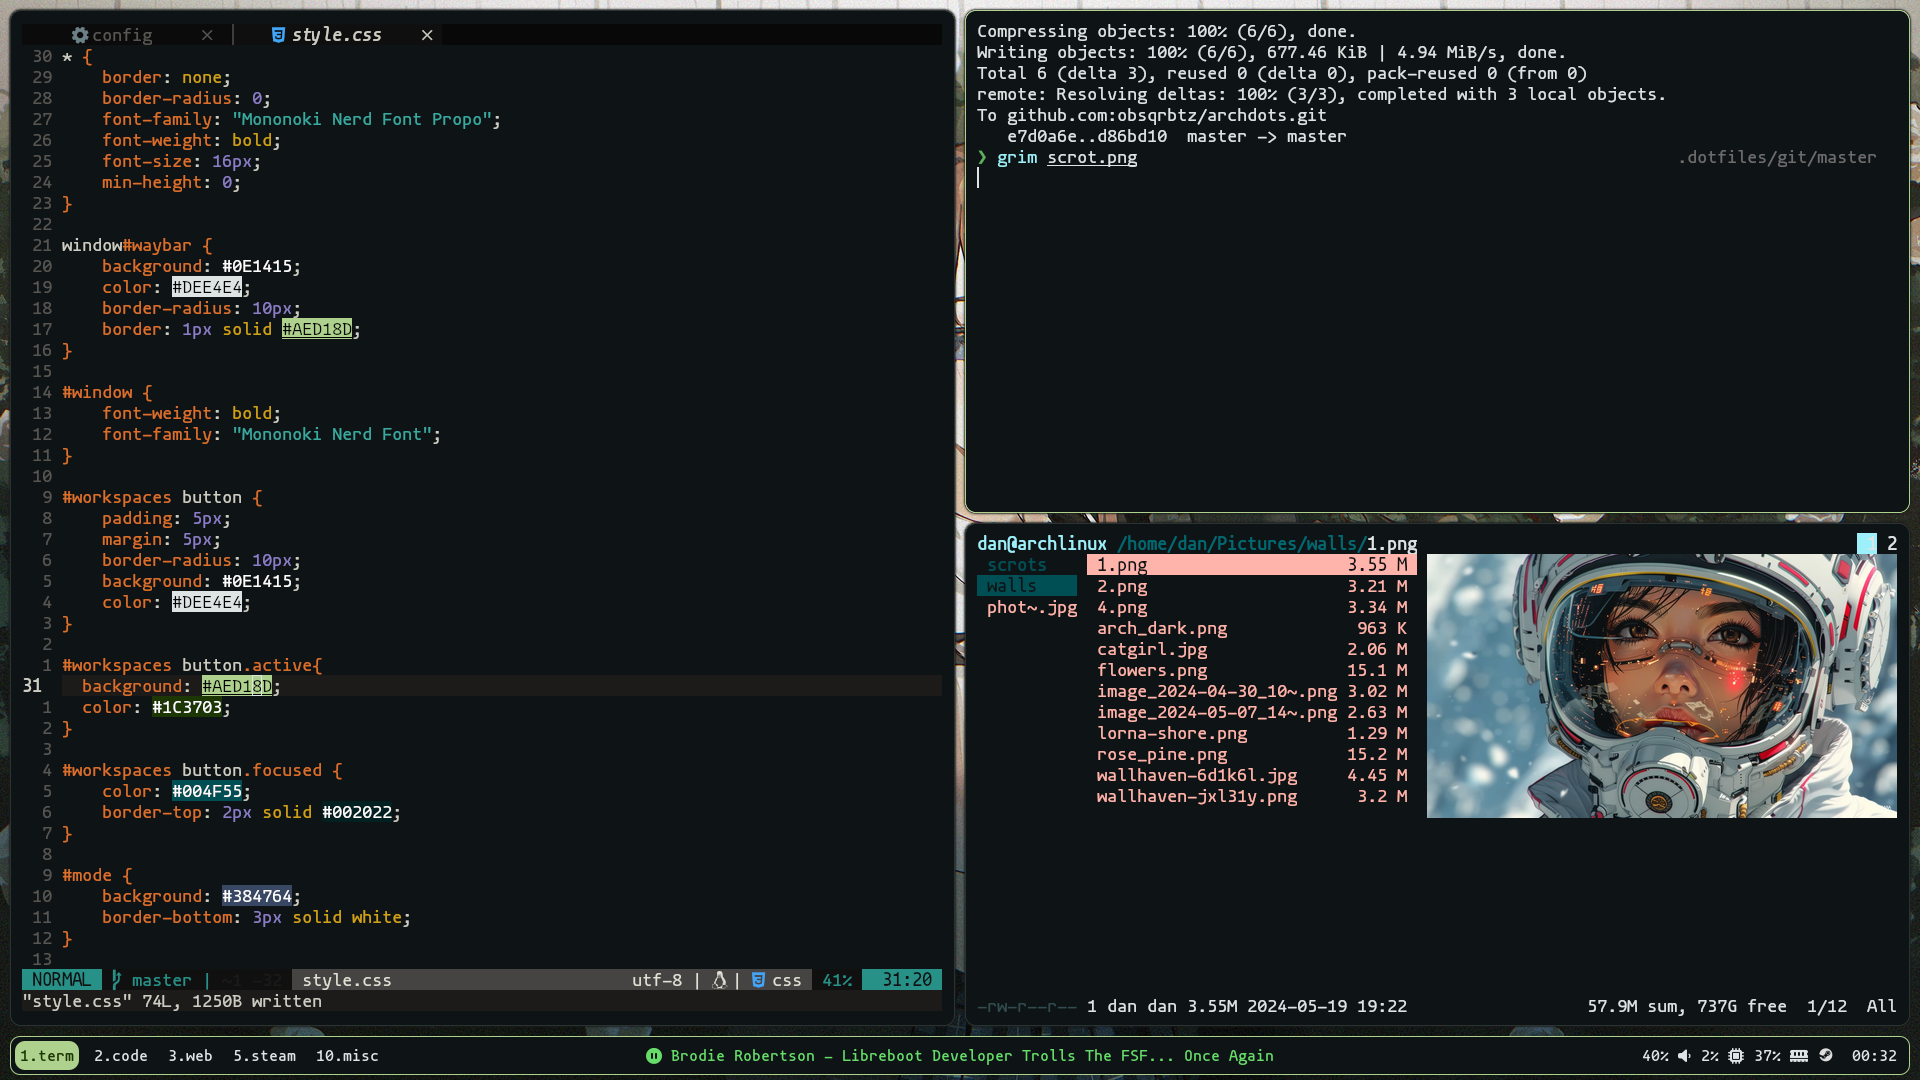
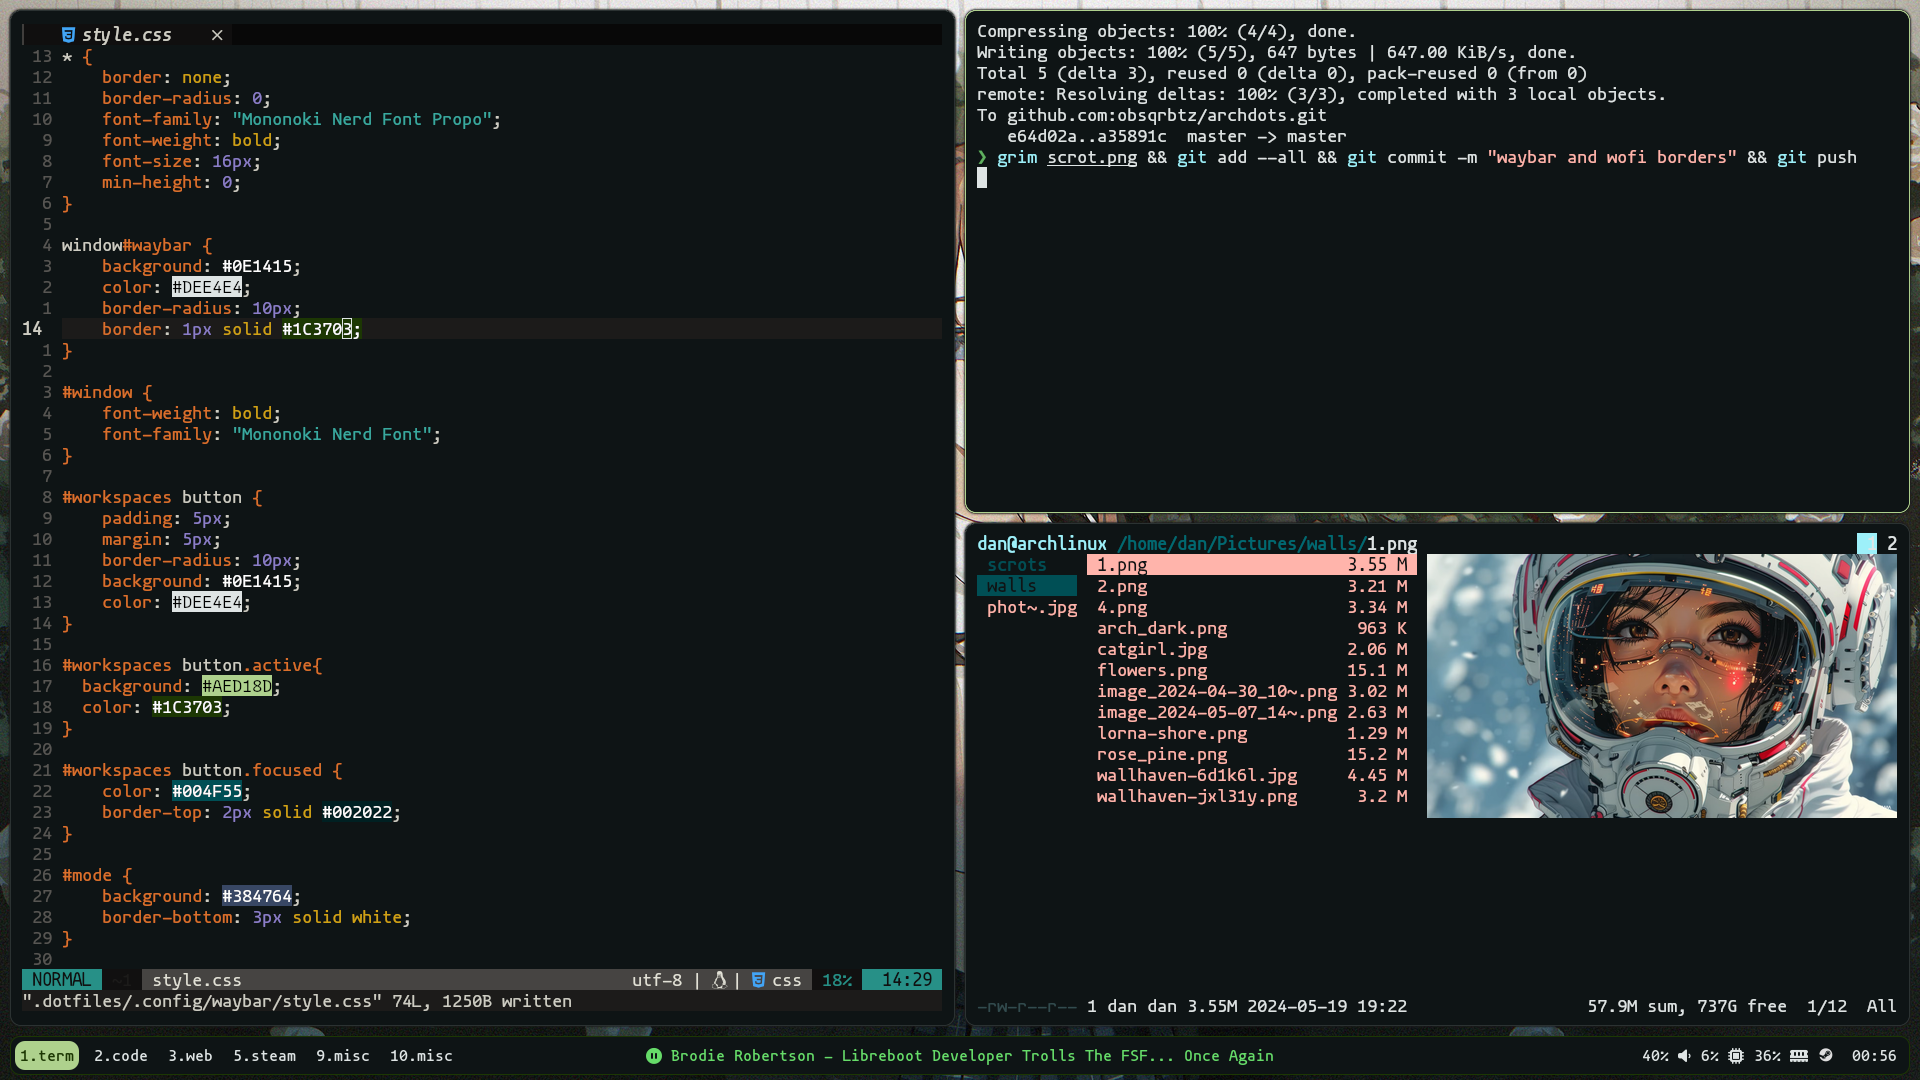
waybar and wofi borders

diff --git a/.config/waybar/style.css b/.config/waybar/style.css
@@ -11,7 +11,7 @@ window#waybar {
     background: #0E1415;
     color: #DEE4E4;
 		border-radius: 10px;
-		border: 1px solid #AED18D;
+		border: 1px solid #1C3703;
 }
 
 #window {

diff --git a/.config/wofi/style.css b/.config/wofi/style.css
@@ -1,6 +1,6 @@
 window {
 	margin: 0px;
-	border: 1px solid #AED18D;
+	border: 1px solid #1C3703;
 	background-color:#0E1415;
 }
 
